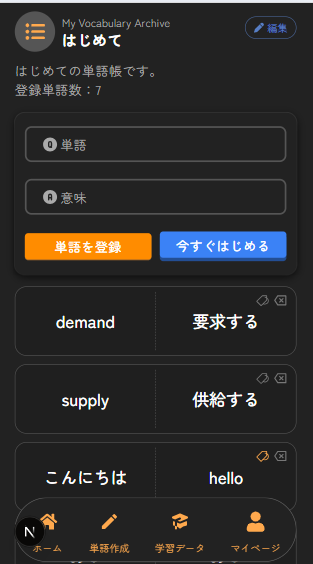
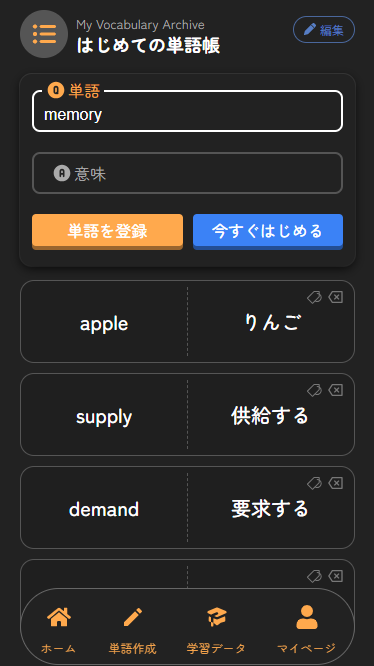
update README

diff --git a/README.md b/README.md
@@ -16,6 +16,15 @@
 
 ## Features
 
+### トップ
+- 今日の一問（復習単語等から一問を表示、出会う回数を増やす）
+- 公式単語集（既存の単語帳も提供、自作する必要するがないため、すぐに学習を始められる）
+- 自作単語帳への導線
+- 週ごとのstreakを表示（自分の記録からやる気upを狙う）
+
+![ホーム画面（1枚目）](docs/images/user/top-01.png)
+![ホーム画面（2枚目）](docs/images/user/top-02.png)
+
 ### 単語帳管理
 - 公式単語帳の閲覧
 - 自作単語帳の作成・編集
@@ -60,7 +69,7 @@
 
 ---
 
-### 管理者用機能
+### 管理者用機能 
 - 公式単語帳の作成・管理
 - ユーザー一覧の閲覧
 
